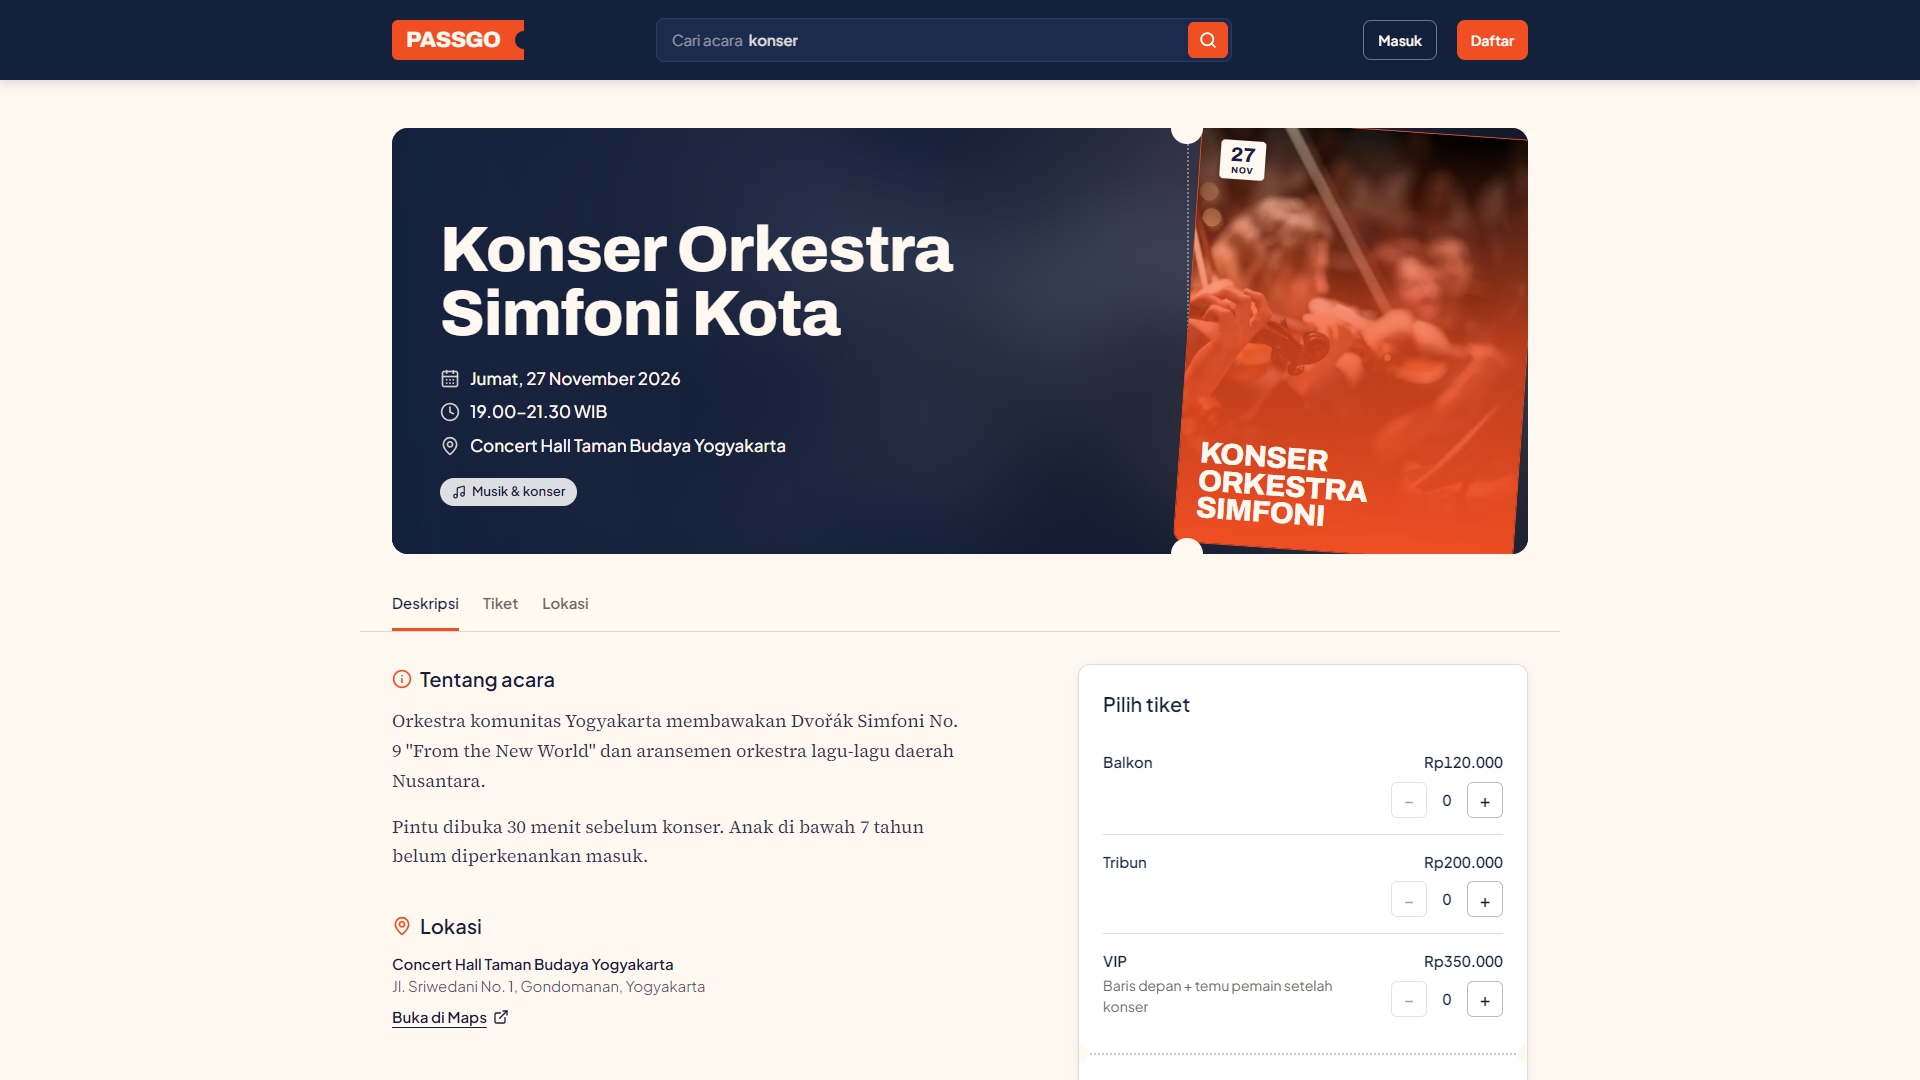
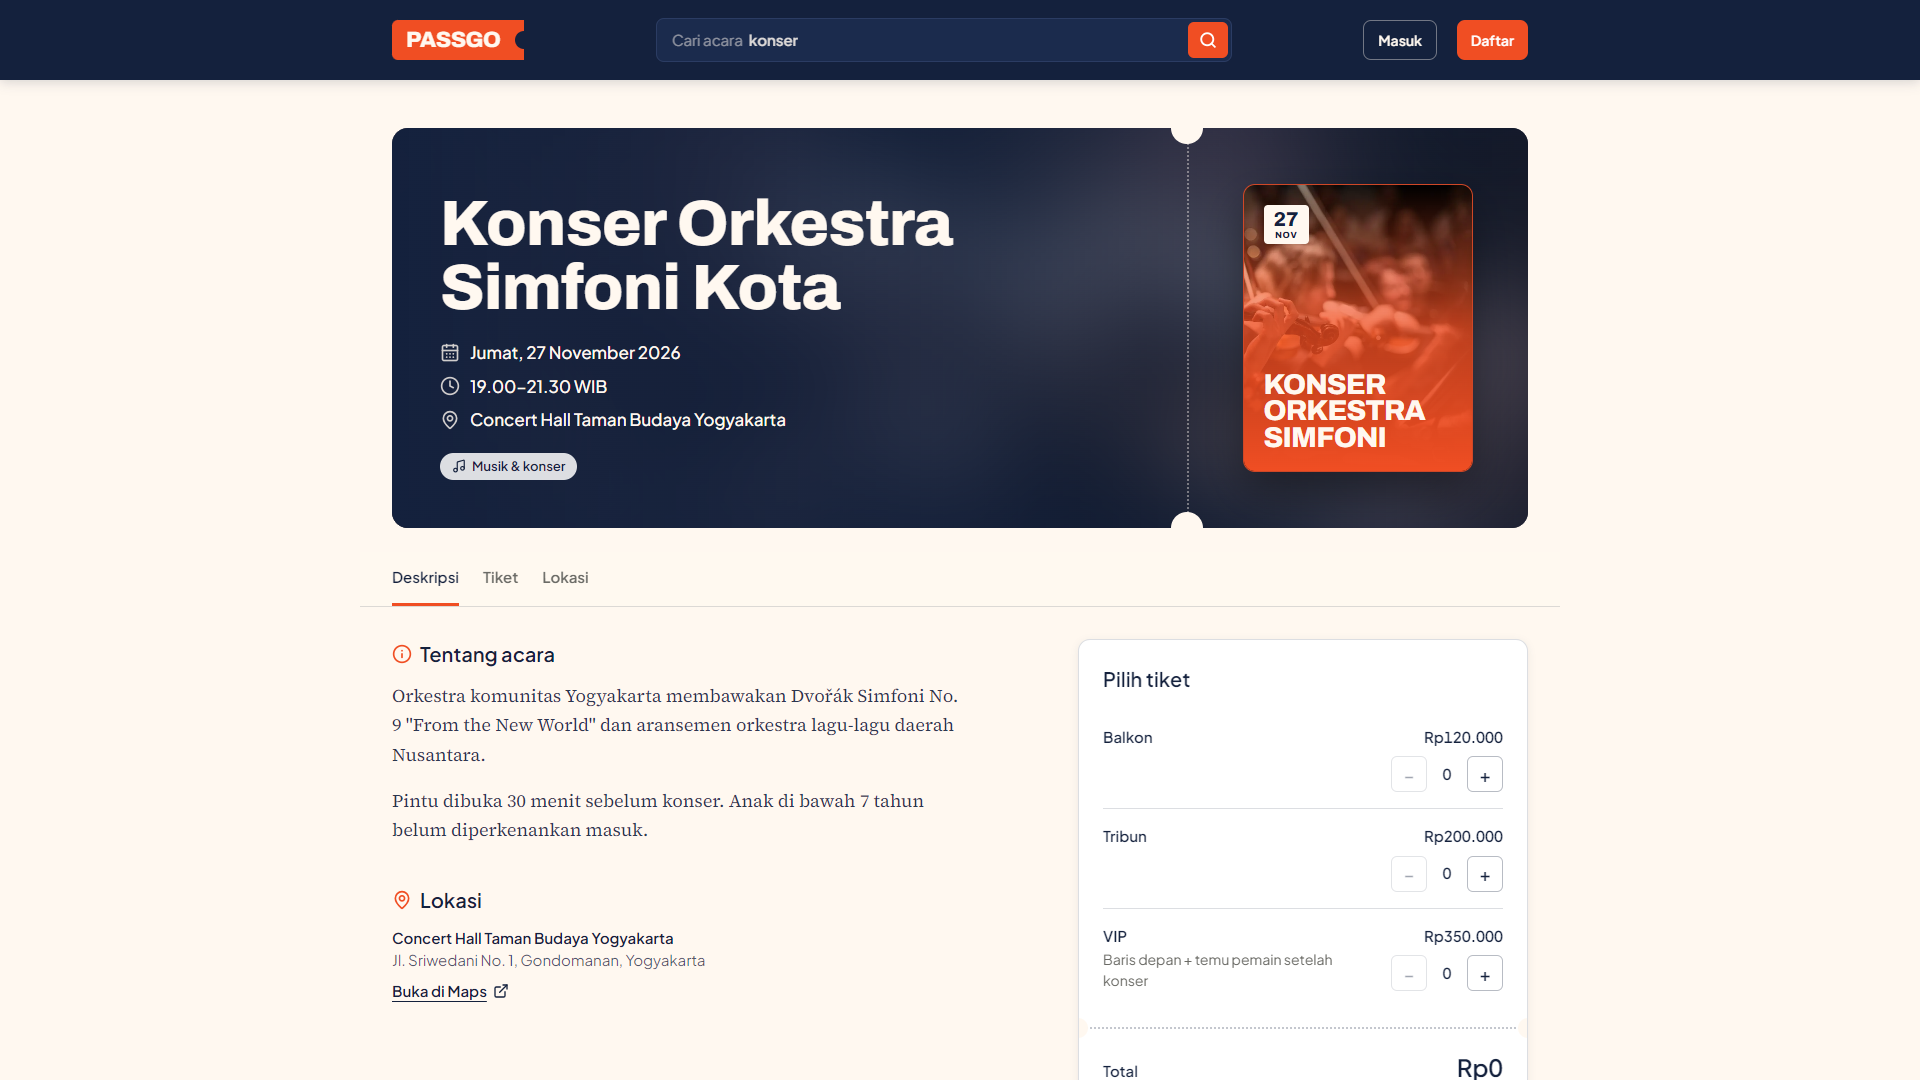
fix(frontend): poster detail acara tegak dan muat di header

diff --git a/apps/frontend/src/app/(site)/events/[slug]/page.tsx b/apps/frontend/src/app/(site)/events/[slug]/page.tsx
@@ -91,7 +91,10 @@ export default async function EventDetailPage({ params }: PageProps<"/events/[sl
         </div>
         <div aria-hidden className="absolute bottom-0 left-[70%] top-0 hidden border-r-2 border-dotted border-cream/40 md:block" />
         <div className="relative hidden w-[30%] items-center justify-center md:flex">
-          <Poster event={event} size="lg" className="w-[240px] rotate-[4deg] shadow-card-hover" />
+          {/* Lebar diatur pembungkus: Poster selalu w-full, jadi kelas lebar langsung di Poster tidak berlaku. */}
+          <div className="w-[210px] lg:w-[230px]">
+            <Poster event={event} size="lg" className="shadow-[0_20px_40px_rgb(0_0_0/0.35)]" />
+          </div>
         </div>
       </header>
 
